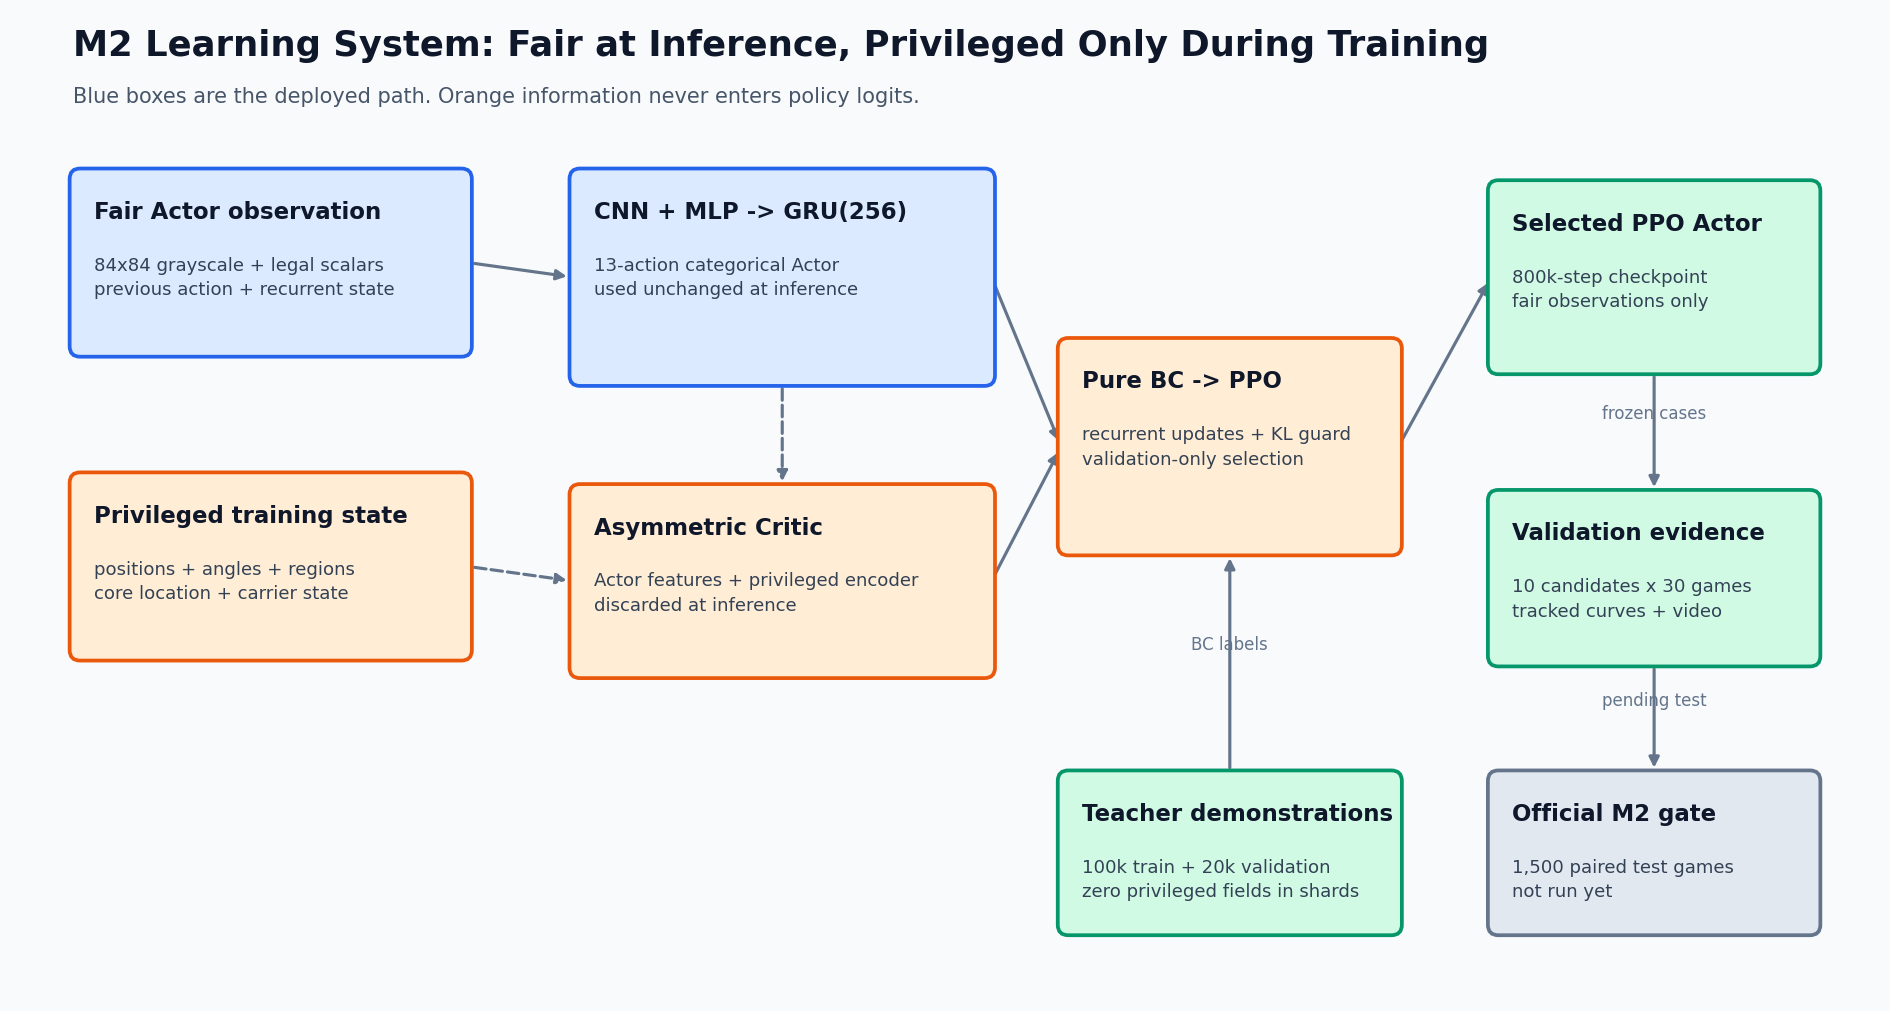
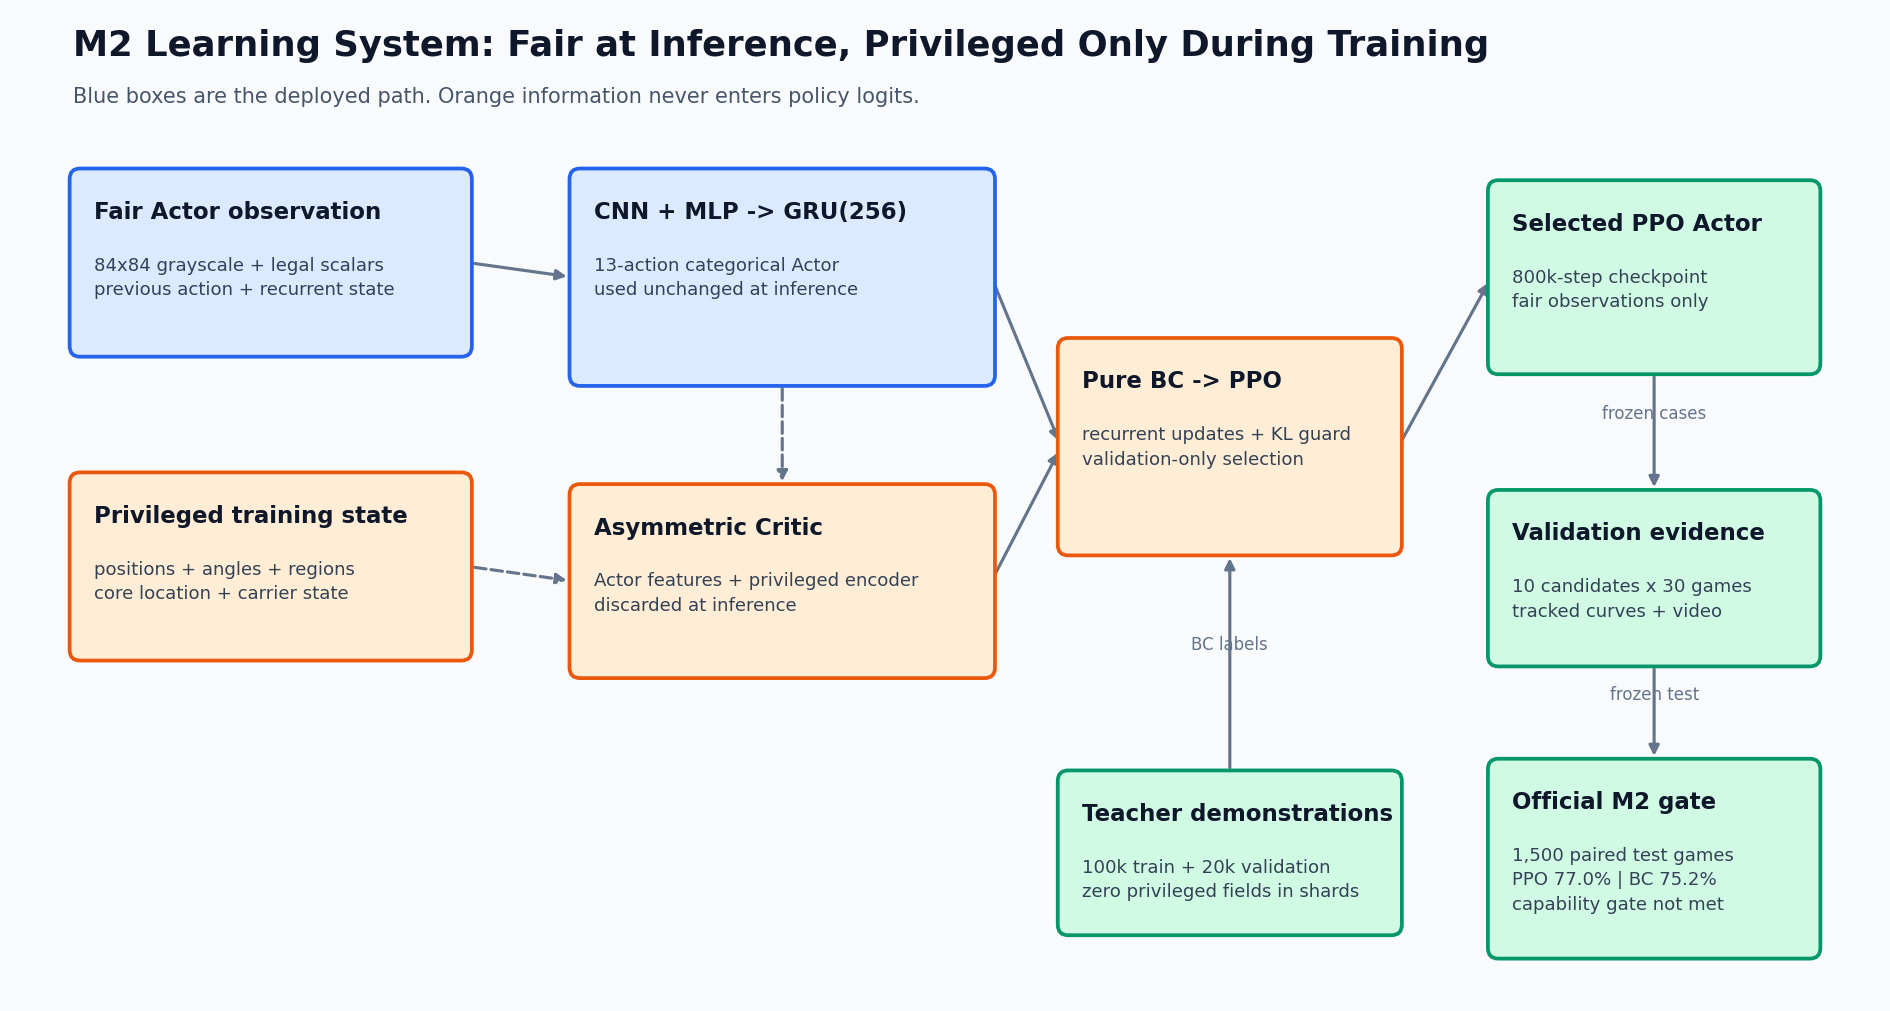
docs: publish the official M2 result honestly

Changed region(s): [[0.7804, 0.7359, 0.9677, 0.9505], [0.8429, 0.6746, 0.9053, 0.7052]]

diff --git a/src/botcolosseo/demo/m2_system_diagram.py b/src/botcolosseo/demo/m2_system_diagram.py
@@ -107,12 +107,12 @@ def diagram_spec() -> SystemDiagramSpec:
         ),
         "official_evaluation": DiagramNode(
             12.7,
-            0.55,
+            0.35,
             2.8,
-            1.35,
+            1.65,
             "Official M2 gate",
-            "1,500 paired test games\nnot run yet",
-            "pending",
+            "1,500 paired test games\nPPO 77.0% | BC 75.2%\ncapability gate not met",
+            "evidence",
         ),
     }
     edges = (
@@ -146,7 +146,7 @@ def diagram_spec() -> SystemDiagramSpec:
         DiagramEdge(
             "validation_evidence",
             "official_evaluation",
-            "pending test",
+            "frozen test",
             source_anchor="bottom",
             target_anchor="top",
         ),
@@ -166,7 +166,6 @@ def render_system_diagram(output: Path) -> Path:
         "runtime": ("#DBEAFE", "#2563EB"),
         "training_only": ("#FFEDD5", "#EA580C"),
         "evidence": ("#D1FAE5", "#059669"),
-        "pending": ("#E2E8F0", "#64748B"),
     }
     fig, axis = plt.subplots(figsize=(16, 8.5), dpi=150)
     fig.patch.set_facecolor("#F8FAFC")

diff --git a/tests/unit/test_m2_system_diagram.py b/tests/unit/test_m2_system_diagram.py
@@ -14,7 +14,8 @@ def test_diagram_spec_keeps_privileged_state_out_of_actor_inputs() -> None:
         edge.source == "privileged_state" and edge.target == "critic"
         for edge in spec.edges
     )
-    assert spec.nodes["official_evaluation"].status == "pending"
+    assert spec.nodes["official_evaluation"].status == "evidence"
+    assert "capability gate not met" in spec.nodes["official_evaluation"].detail
 
 
 def test_system_diagram_renders_nonempty_png(tmp_path: Path) -> None:

diff --git a/docs/milestones/m2.md b/docs/milestones/m2.md
@@ -1,8 +1,9 @@
 # Milestone 2: learned Bot in synchronous 1v1
 
-M2 training is complete and the official paired test is prepared but not yet
-run. This page separates verified engineering/training evidence from the
-pending official PPO-versus-BC result.
+M2 training and its official paired test are complete. The 1,500-game artifact
+is integrity-clean, but the frozen capability gate did not pass because PPO did
+not improve enough over the strong BC baseline. This page separates verified
+engineering/training evidence from that negative capability result.
 
 ## What is implemented
 
@@ -98,26 +99,36 @@ resumed from the atomic checkpoint and finished without missing or duplicated
 rollouts; this recovery and the retained traceback are disclosed in the PPO
 summary rather than hidden.
 
-## Official paired gate: pending
+## Official paired gate: complete, capability not passed
 
-The frozen official evaluator will run exactly 1,500 test games: PPO, BC, and
+The frozen official evaluator ran exactly 1,500 test games: PPO, BC, and
 RandomLegal against five opponents, with 50 seed-pairs per opponent and both
-learner sides. Checkpoint selection used validation only and did not access any
-official test episode. The clean-worktree preflight has passed; the exact
-launch, monitoring, recovery, and artifact-audit commands are in
-[`script.md`](../../script.md#action-required-official-m2-paired-learning-gate).
-The final machine audit is also available as a reusable command:
+learner sides. Checkpoint selection used validation only and did not access an
+official test episode. The result was:
+
+| Policy | Win rate | Objective rate | Mean score difference |
+|---|---:|---:|---:|
+| PPO | 77.0% | 93.2% | 1.444 |
+| BC | 75.2% | 97.8% | 1.408 |
+| RandomLegal | 34.4% | 22.0% | 0.110 |
+
+PPO passed the frozen margin over RandomLegal. It did not pass the required
+margin over BC, the objective-rate improvement over BC, the per-opponent floor,
+or the positive paired-score lower-confidence-bound gate. The result is
+therefore useful negative evidence rather than an M2 capability pass. All 1,500
+rows, the manifest, and the summary are tracked under [`reports/m2/`](../../reports/m2/).
+The exact launch and recovery commands remain in [`script.md`](../../script.md).
+The machine audit is available as a reusable command:
 
 ```bash
 PYTHONPATH=src python scripts/audit_m2_evidence.py
 ```
 
-It rejects partial files, failed or missing gates, incorrect row counts,
+It rejects partial files, missing gates, incorrect row counts,
 duplicates, policy/opponent imbalance, broken side swaps, hash drift, checkpoint
 selection drift, dirty evaluation provenance, and a missing evaluation commit.
-
-Until `reports/m2/episodes.csv`, `summary.json`, and `manifest.json` exist and
-pass that audit, this milestone makes no official claim that PPO outperforms BC.
+It reports artifact integrity and capability as separate decisions so a clean
+negative result cannot be mistaken for corruption or a passing model.
 
 ## Checkpoint distribution
 
@@ -127,10 +138,10 @@ are tracked above and in the training summaries, so this worktree can run the
 frozen evaluator without ambiguity. A clean clone cannot yet download those
 weights because this repository has no configured GitHub remote or Release.
 
-After the official gate, the two hash-verified files will either be attached to
-a versioned GitHub Release or deliberately published with an artifact mechanism
-supported by the final remote. Download URLs and a hash-checking command must be
-added before M2 is called reproducible from a clean checkout. Generated
+The two hash-verified files will either be attached to a versioned GitHub
+Release or deliberately published with an artifact mechanism supported by the
+final remote. Download URLs and a hash-checking command must be added before M2
+is called reproducible from a clean checkout. Generated
 optimizer snapshots and unselected candidates will remain unpublished.
 
 ## Scope boundary

diff --git a/README.md b/README.md
@@ -8,11 +8,13 @@ discarding its task skill. The approved technical design is in [Plan.md](Plan.md
 
 ## Current status
 
-Milestone 1 is complete. Milestone 2 now has a real synchronous 1v1 environment,
-a fair-observation recurrent Actor, 120,000 demonstration transitions, pure-BC
-initialization, and a 1,000,000-step PPO run. The official 1,500-game paired M2
-test is frozen and prepared but has not yet been run, so no PPO-over-BC test
-claim is made here.
+Milestone 1 passed its frozen capability gate. Milestone 2 delivered a real
+synchronous 1v1 environment, a fair-observation recurrent Actor, 120,000
+demonstration transitions, pure-BC initialization, and a 1,000,000-step PPO
+run. Its official 1,500-game paired test is complete and integrity-clean, but
+the frozen capability gate did **not** pass: PPO clearly beat RandomLegal but
+did not improve enough over the strong BC baseline. No M2 capability-pass claim
+is made here.
 
 ![M2 fair-observation learning system](docs/assets/m2-system.png)
 
@@ -29,6 +31,17 @@ These are validation-only selection numbers. See the
 [training summaries](reports/m2/). The showcase uses the selected checkpoints
 on one frozen validation seed; it is qualitative rather than an official
 performance sample.
+
+| Official M2 test (500 games/policy) | Win rate | Objective rate |
+|---|---:|---:|
+| PPO | 77.0% | 93.2% |
+| Behavioral cloning | 75.2% | 97.8% |
+| RandomLegal | 34.4% | 22.0% |
+
+The complete paired rows and frozen gate decisions are tracked in
+[`reports/m2/`](reports/m2/). Historical-opponent/PFSP training is now the M3
+route for testing whether robustness can improve beyond this M2 plateau; its
+Strong Base result remains pending.
 
 Milestone 1 established the source-built Crystal Run scenario, auditable ACS
 event protocol, fair single-agent interface, five deterministic Teachers,